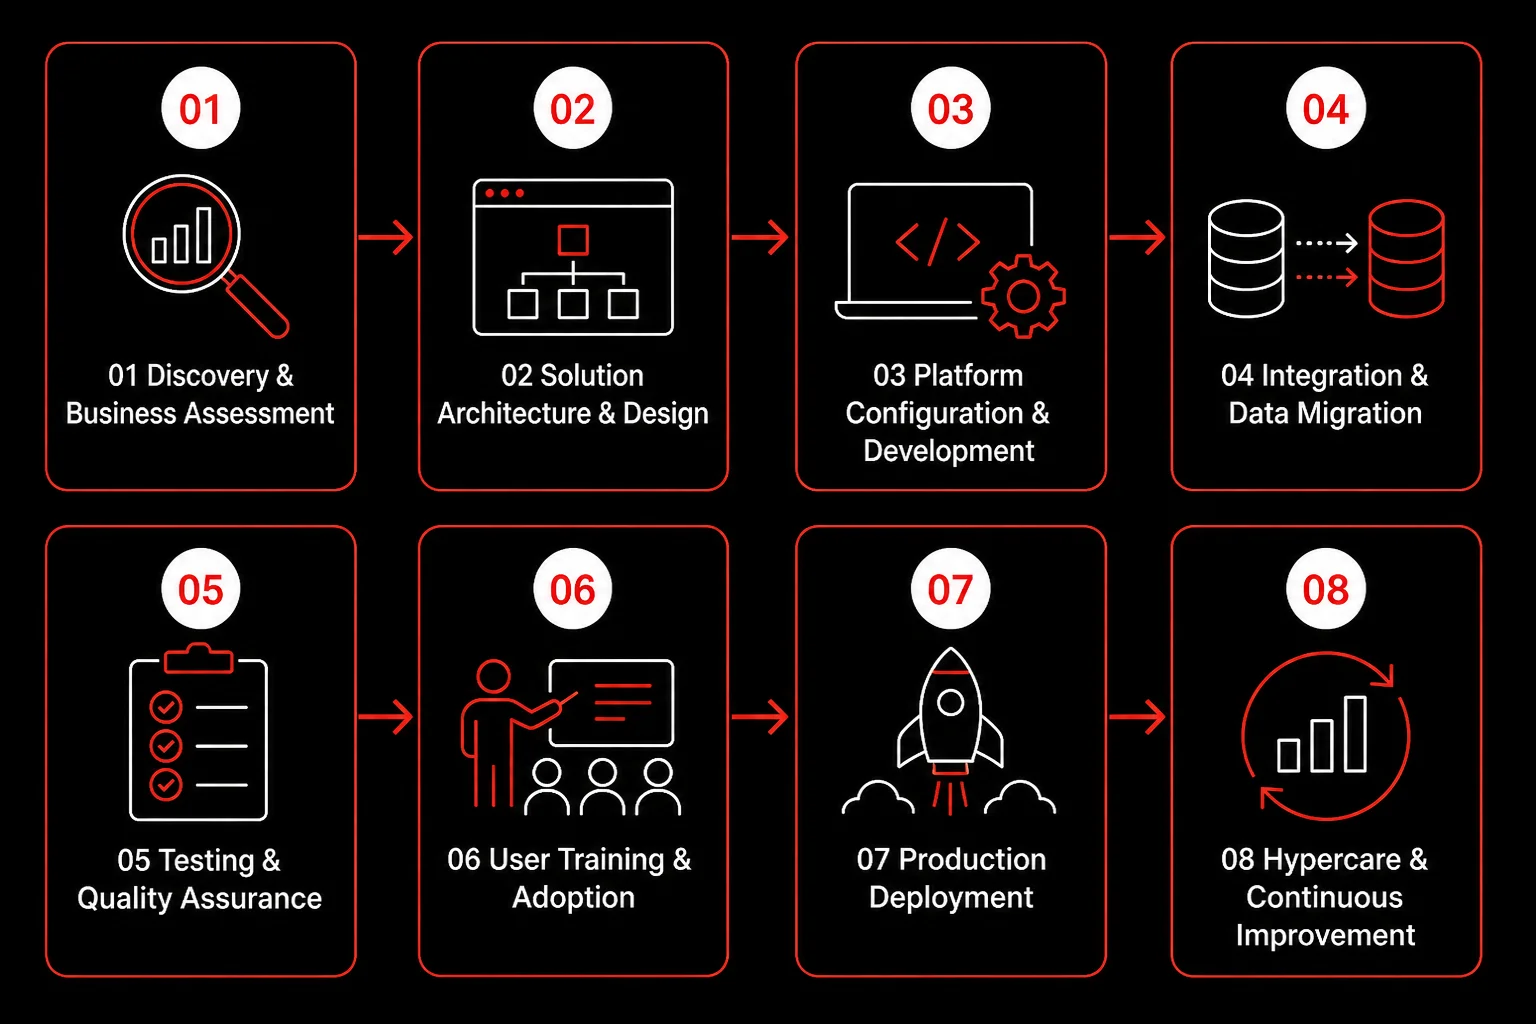
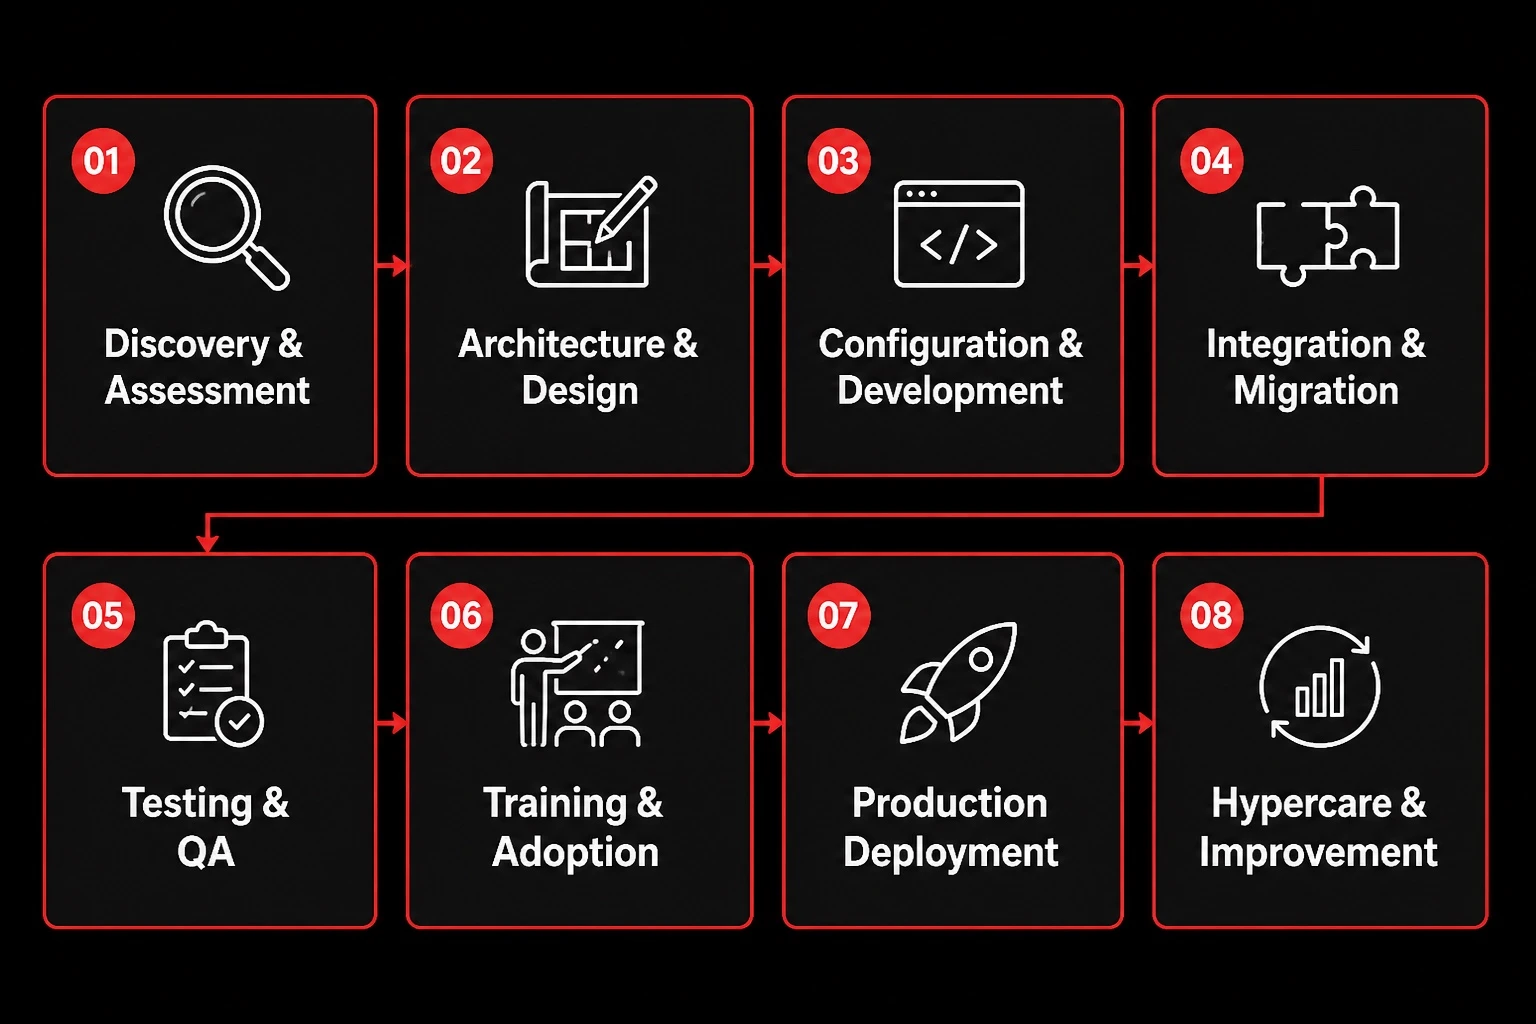
Enhance ClarityServiceDetailPage image display and remove unused sections from rallyServicePagesData

Changed region(s): [[0.0, 0.0312, 0.9688, 0.9688], [0.2812, 0.9375, 0.4688, 0.9688], [0.0312, 0.9375, 0.2188, 0.9688]]

diff --git a/section/Rally/rallyServicePagesData.js b/section/Rally/rallyServicePagesData.js
@@ -1,8 +1,3 @@
-const sharedClosing = {
-  title: "Drive Agile Outcomes with Confidence",
-  text: "Albatroz helps organizations realize stronger Rally outcomes through implementation, integration, and sustained support services that align teams, improve visibility, and strengthen delivery execution.",
-};
-
 function buildRallyServicePage({
   slug,
   title,
@@ -10,7 +5,6 @@ function buildRallyServicePage({
   image,
   intro,
   bullets,
-  extraSections = [],
 }) {
   return {
     slug,
@@ -25,9 +19,7 @@ function buildRallyServicePage({
         paragraphs: [],
         bullets,
       },
-      ...extraSections,
     ],
-    closing: sharedClosing,
   };
 }
 
@@ -48,15 +40,6 @@ export const rallyServicePages = {
       "Dashboard configuration for operational and leadership visibility",
       "User onboarding, training, and go-live support",
     ],
-    extraSections: [
-      {
-        title: "Why Choose Albatroz?",
-        paragraphs: [
-          "We combine practical Agile delivery experience with deep Rally expertise to implement solutions that are usable, scalable, and aligned to business outcomes from day one.",
-        ],
-        bullets: [],
-      },
-    ],
   }),
 
   integration: buildRallyServicePage({
@@ -74,15 +57,6 @@ export const rallyServicePages = {
       "Secure, scalable, and resilient integration patterns",
       "Integration design aligned to business process needs",
       "Ongoing validation for data consistency and reliability",
-    ],
-    extraSections: [
-      {
-        title: "Why Choose Albatroz?",
-        paragraphs: [
-          "Our team designs integrations that are both technically robust and operationally meaningful, ensuring that leadership and delivery teams work from the same trusted data.",
-        ],
-        bullets: [],
-      },
     ],
   }),
 
@@ -102,15 +76,6 @@ export const rallyServicePages = {
       "Enhancement delivery and configuration changes",
       "User administration and access support",
       "Ongoing maintenance, upgrades, and proactive monitoring",
-    ],
-    extraSections: [
-      {
-        title: "Why Choose Albatroz?",
-        paragraphs: [
-          "We operate as an extension of your team, balancing responsiveness with long-term platform health so Rally remains trusted across engineering and business stakeholders.",
-        ],
-        bullets: [],
-      },
     ],
   }),
 };

diff --git a/section/Clarity/ClarityServiceDetailPage.jsx b/section/Clarity/ClarityServiceDetailPage.jsx
@@ -54,11 +54,11 @@ function SectionBlock({ section, compact = false }) {
       )}
 
       {hasImage && (
-        <div className="mt-4 -mx-2 overflow-hidden sm:mt-5 sm:-mx-1">
+        <div className="mt-4 flex justify-center overflow-hidden sm:mt-5">
           <img
             src={section.image}
             alt={section.imageAlt || section.title}
-            className="h-auto w-full object-contain mix-blend-lighten"
+            className="h-auto w-full max-w-4xl object-contain mix-blend-lighten"
           />
         </div>
       )}
